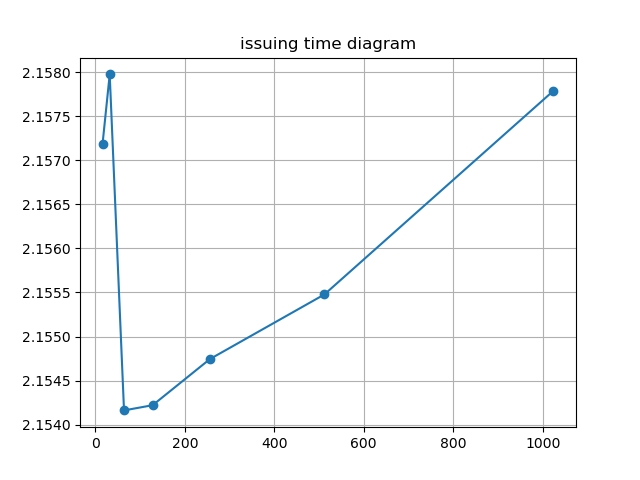
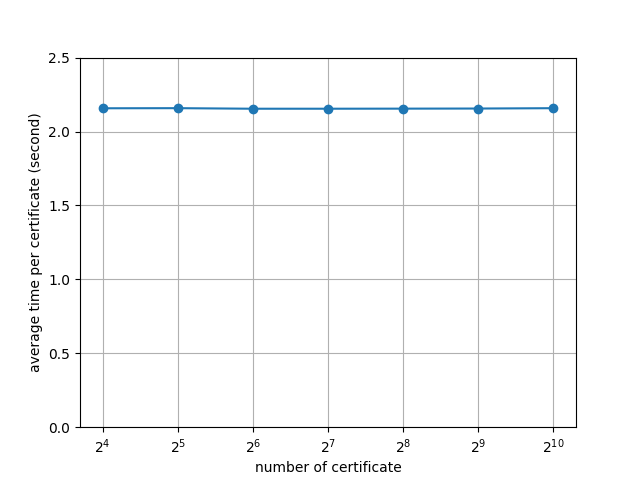
update diagrams

diff --git a/plot.py b/plot.py
@@ -8,13 +8,13 @@ x = np.array([pow(2, 4),	pow(2, 5),	pow(2, 6),	pow(
 
 
 ################ Modify PATH to plot ################
-FOLDER_PATH = "./19-04-2022-trial-1"
+FOLDER_PATH = "./15-04-2022-trial-3"
 #####################################################
 
 
 e2e_log = open(FOLDER_PATH+"/e2etime.log", "r")
 upload_log = open(FOLDER_PATH+"/upload.log", "r")
-verify_log = open(FOLDER_PATH+"/verify.log", "r")
+# verify_log = open(FOLDER_PATH+"/verify.log", "r")
 
 e2e_time = e2e_time_std = upload_time = verify_time = verify_time_std = np.array([
 ])
@@ -26,7 +26,7 @@ for line in e2e_log.readlines():
 
         result = re.findall("\d+\.\d+", line)
         e2e_time = np.append(e2e_time, float(result[0]))
-        e2e_time_std = np.append(e2e_time_std, float(result[1]))
+        # e2e_time_std = np.append(e2e_time_std, float(result[1]))
 
 for line in upload_log.readlines():
     line = line.strip()
@@ -34,17 +34,17 @@ for line in upload_log.readlines():
         average = float(re.findall("\d+\.\d+", line)[0])
         upload_time = np.append(upload_time, average)
 
-for line in verify_log.readlines():
-    line = line.strip()
-    if len(line) > 58:
-        result = re.findall("\d+\.\d+", line)
-        verify_time = np.append(verify_time, float(result[0]))
-        verify_time_std = np.append(verify_time_std, float(result[1]))
+# for line in verify_log.readlines():
+#     line = line.strip()
+#     if len(line) > 58:
+#         result = re.findall("\d+\.\d+", line)
+#         verify_time = np.append(verify_time, float(result[0]))
+#         verify_time_std = np.append(verify_time_std, float(result[1]))
 
 
 e2e_log.close()
 upload_log.close()
-verify_log.close()
+# verify_log.close()
 
 
 # plt.title("issuing time diagram")
@@ -57,13 +57,13 @@ plt.ylim(0, 2.5)
 plt.savefig(FOLDER_PATH + "/issuing-time-diagram.png")
 plt.close()
 
-plt.ylabel("std time per certificate (second)")
-plt.xlabel("number of certificate")
-plt.xscale('log', base=2)
-plt.plot(x, e2e_time_std, '-o')
-plt.grid()
-plt.savefig(FOLDER_PATH + "/issuing-time-std-diagram.png")
-plt.close()
+# plt.ylabel("std time per certificate (second)")
+# plt.xlabel("number of certificate")
+# plt.xscale('log', base=2)
+# plt.plot(x, e2e_time_std, '-o')
+# plt.grid()
+# plt.savefig(FOLDER_PATH + "/issuing-time-std-diagram.png")
+# plt.close()
 
 
 
@@ -94,24 +94,24 @@ plt.grid()
 plt.ylim((0, 140))
 plt.savefig(FOLDER_PATH + "/upload-time-linear-diagram.png")
 plt.close()
-# plt.title("verify time diagram")
-plt.ylabel("average verification time per certificate (second)")
-plt.xlabel("number of certificate")
-plt.plot(x, verify_time, '-o')
-plt.xscale('log', base=2)
-plt.ylim((0, 0.05))
-plt.grid()
-plt.savefig(FOLDER_PATH + "/verify-time-diagram.png")
-plt.close()
+# # plt.title("verify time diagram")
+# plt.ylabel("average verification time per certificate (second)")
+# plt.xlabel("number of certificate")
+# plt.plot(x, verify_time, '-o')
+# plt.xscale('log', base=2)
+# plt.ylim((0, 0.05))
+# plt.grid()
+# plt.savefig(FOLDER_PATH + "/verify-time-diagram.png")
+# plt.close()
 
 
-# plt.title("verify time diagram")
-plt.ylabel("std time per certificate (second)")
-plt.xlabel("number of certificate")
-plt.plot(x, verify_time_std, '-o')
-plt.xscale('log', base=2)
-plt.ylim((0, 0.01))
+# # plt.title("verify time diagram")
+# plt.ylabel("std time per certificate (second)")
+# plt.xlabel("number of certificate")
+# plt.plot(x, verify_time_std, '-o')
+# plt.xscale('log', base=2)
+# plt.ylim((0, 0.01))
 
-plt.grid()
-plt.savefig(FOLDER_PATH + "/verify-time-std-diagram.png")
-plt.close()
+# plt.grid()
+# plt.savefig(FOLDER_PATH + "/verify-time-std-diagram.png")
+# plt.close()
